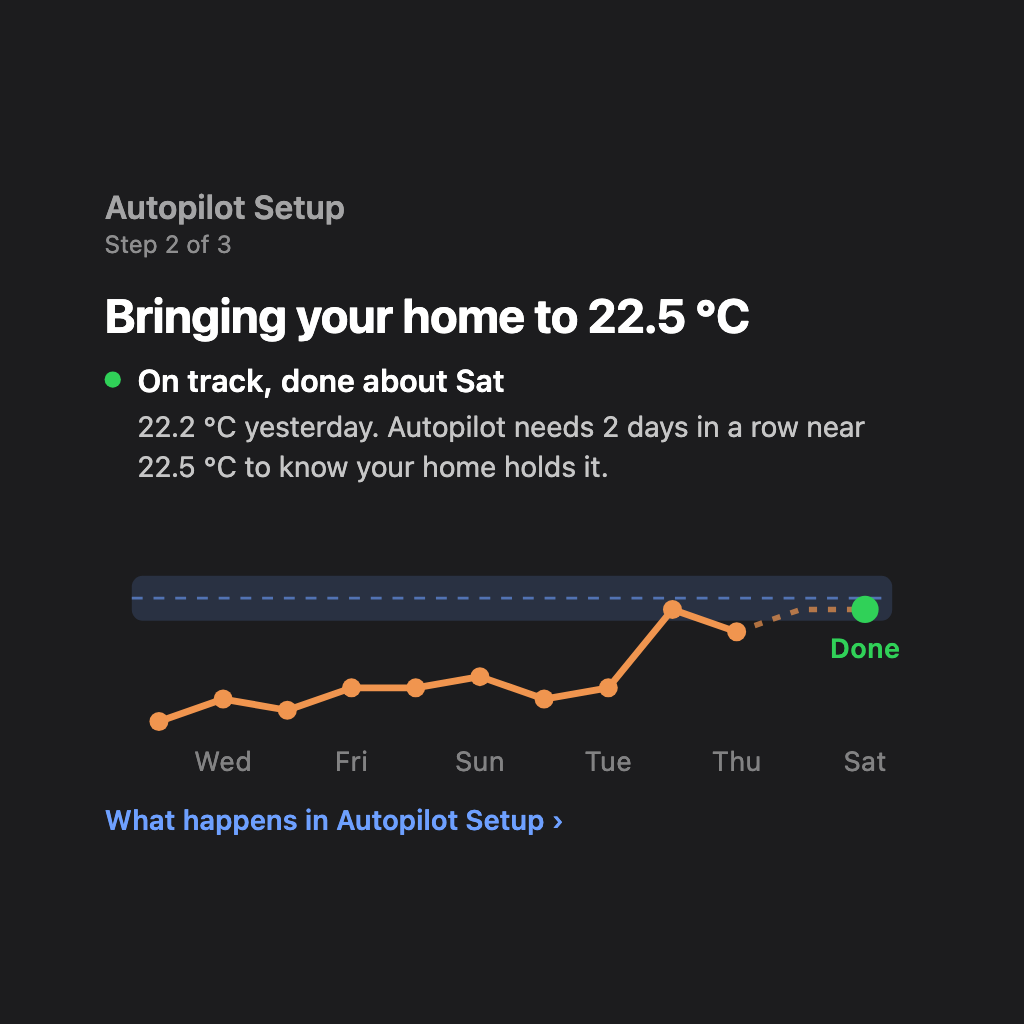
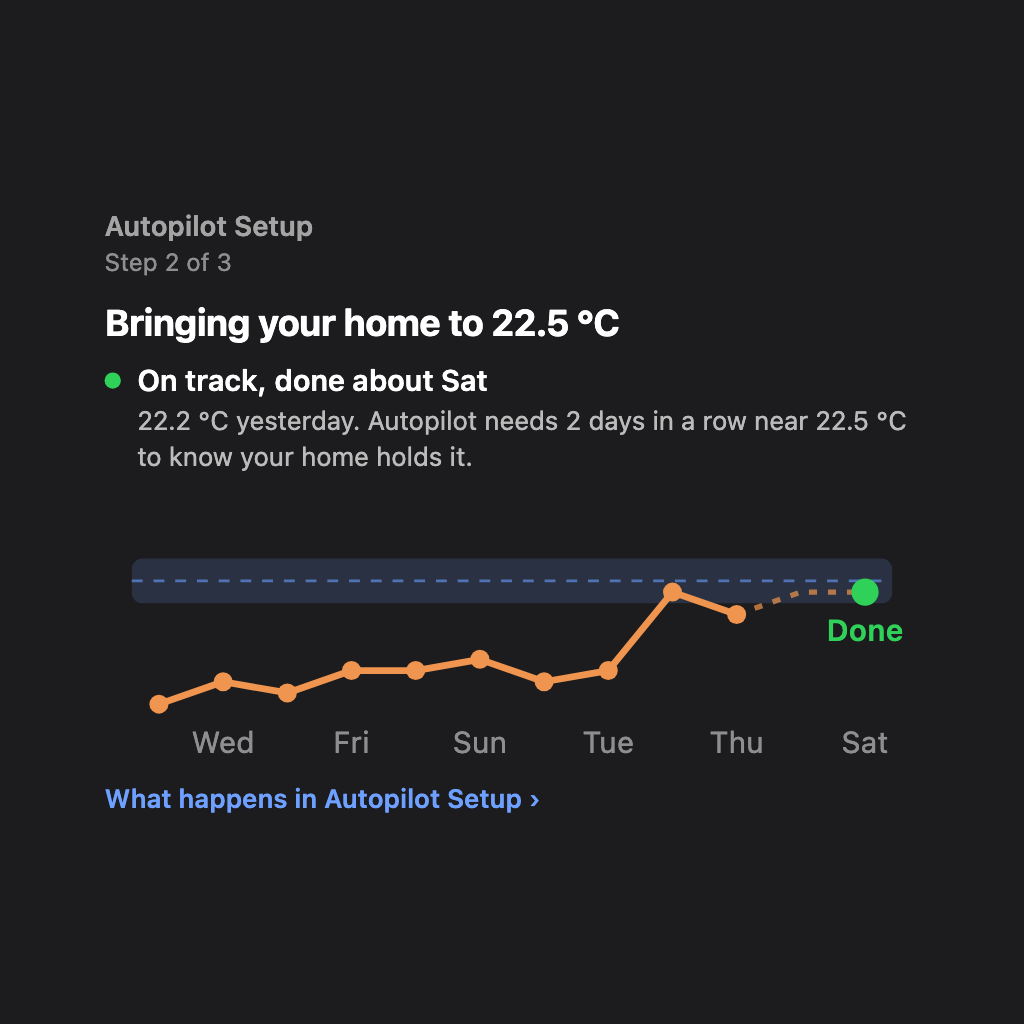
Autopilot Setup card: a type scale and 4px spacing from a design pass
The headline at about 20px fits "Bringing your home to 22.5 °C" on one
line, and a number keeps its unit. Title as the other cards' labels, status
semibold, why text and links one size, chart labels no longer the smallest.
Pairs sit 2px apart, groups 8 to 12px, the graph 16px clear. The why text is
muted by colour, not opacity, which the rise animation reset and which also
dimmed its link; older web views fall back to opacity.

diff --git a/widgets/getting_started/public/index.html b/widgets/getting_started/public/index.html
@@ -7,17 +7,24 @@
          graph walks the days to the target and on to Done. One link to the help section. The
          line draws when the card first shows or its content changes, never on a plain refresh. */
       .gs { padding: var(--homey-su-3, 12px) var(--homey-su-4, 16px); }
-      .gs-title { opacity: 0.6; font-weight: 600; white-space: nowrap; overflow: hidden; text-overflow: ellipsis; }
+      /* Type: four sizes. Header 0.85/0.75 em, headline 1.125 em, status 0.9 em, body and
+         links 0.8 em. Space on a 4 px step: 2 inside a pair, 8 inside the story, 12-16 between
+         blocks. Headline, status and why read as one group; the graph and help link stand apart. */
+      .gs-title { font-size: 0.85em; opacity: 0.6; font-weight: 600; white-space: nowrap; overflow: hidden; text-overflow: ellipsis; }
       .gs-step { font-size: 0.75em; opacity: 0.5; margin-top: 2px; }
-      .gs-big { margin-top: 14px; font-size: 1.45em; font-weight: 700; letter-spacing: -0.01em; line-height: 1.2; }
-      .gs-status { display: flex; align-items: center; gap: 8px; margin-top: 8px; font-size: 0.95em; font-weight: 600; }
+      .gs-big { margin-top: 12px; font-size: 1.125em; font-weight: 700; letter-spacing: -0.01em; line-height: 1.2; }
+      .gs-status { display: flex; align-items: center; gap: 8px; margin-top: 8px; font-size: 0.9em; font-weight: 600; line-height: 1.3; }
       .gs-status i { position: relative; width: 8px; height: 8px; border-radius: 50%; flex: none; background: currentColor; opacity: 0.4; }
-      .gs-why { margin: 4px 0 0 16px; font-size: 0.88em; opacity: 0.75; line-height: 1.45; }
+      /* Muted by colour, not opacity: the rise animation ends at opacity 1 and would undo it, and
+         an inline link keeps its full colour. */
+      .gs-why { margin: 2px 0 0 16px; font-size: 0.8em; color: color-mix(in srgb, currentColor 70%, transparent); line-height: 1.4; }
+      /* Older web views (before iOS 16.2): muted by opacity instead. */
+      @supports not (color: color-mix(in srgb, red 50%, transparent)) { .gs-why { opacity: 0.75; } }
       .gs-status.good i { background: var(--gs-good); opacity: 1; }
       .gs-status.warn i { background: var(--gs-warn); opacity: 1; }
-      .gs-help { margin-top: 14px; font-size: 0.85em; }
+      .gs-help { margin-top: 12px; font-size: 0.8em; }
       a.gs-link { color: var(--gs-target); font-weight: 600; text-decoration: none; cursor: pointer; }
-      .gs-chart { display: block; width: 100%; margin-top: 18px; overflow: visible; }
+      .gs-chart { display: block; width: 100%; margin-top: 16px; overflow: visible; }
       .gs-empty { opacity: 0.8; margin: 12px 0; }
       :root { --gs-good: #248a3d; --gs-warn: #b4500c; --gs-line: #e8833a; --gs-target: #3d7be0; }
       :root[data-theme="dark"] { --gs-good: #30d158; --gs-warn: #ff9f0a; --gs-line: #f0954f; --gs-target: #6ea0ff; }
@@ -120,12 +127,12 @@
           var k = end + proj.length, last = proj[proj.length - 1];
           var g = svg('g', {class: 'end'});
           g.appendChild(svg('circle', {cx: x(k), cy: y(last.mean), r: 5, fill: 'var(--gs-good)'}));
-          if (c.doneLabel) g.appendChild(svg('text', {x: x(k), y: Math.min(H - 20, y(last.mean) + 18), 'text-anchor': 'middle', 'font-size': 10, 'font-weight': 600, fill: 'var(--gs-good)'}, c.doneLabel));
+          if (c.doneLabel) g.appendChild(svg('text', {x: x(k), y: Math.min(H - 20, y(last.mean) + 18), 'text-anchor': 'middle', 'font-size': 11, 'font-weight': 600, fill: 'var(--gs-good)'}, c.doneLabel));
           s.appendChild(g);
         }
         s.appendChild(svg('polyline', {class: 'ln', points: days.map(function (d, k) { return x(k) + ',' + y(d.mean); }).join(' '), fill: 'none', stroke: 'var(--gs-line)', 'stroke-width': 2.5, 'stroke-linejoin': 'round'}));
         days.forEach(function (d, k) { s.appendChild(svg('circle', {cx: x(k), cy: y(d.mean), r: 3.5, fill: 'var(--gs-line)'})); });
-        var labels = svg('g', {fill: 'currentColor', opacity: 0.45, 'font-size': 10, 'text-anchor': 'middle'});
+        var labels = svg('g', {fill: 'currentColor', opacity: 0.5, 'font-size': 11, 'text-anchor': 'middle'});
         var every = Math.ceil(n / 10);
         // Counted from the right, so the latest day is always named and the spacing stays even.
         all.forEach(function (d, k) { if ((all.length - 1 - k) % every === 0) labels.appendChild(svg('text', {x: x(k), y: H - 2}, d.label)); });
@@ -141,7 +148,8 @@
         root.appendChild(el('div', 'gs-title', data.title || ''));
         if (data.empty || !data.big) { root.appendChild(el('p', 'gs-empty', data.empty || '')); return; }
         if (data.step) root.appendChild(el('div', 'gs-step', data.step));
-        root.appendChild(el('div', 'gs-big', data.big));
+        // A number and its unit stay on one line ("22.5 °C").
+        root.appendChild(el('div', 'gs-big', data.big.replace(/(\d) (°|K\b)/g, '$1\u00a0$2')));
         if (data.status) {
           var st = el('div', 'gs-status' + (data.status.tone ? ' ' + data.status.tone : '') + (data.act ? ' act' : ''));
           st.append(el('i'), document.createTextNode(data.status.text));
